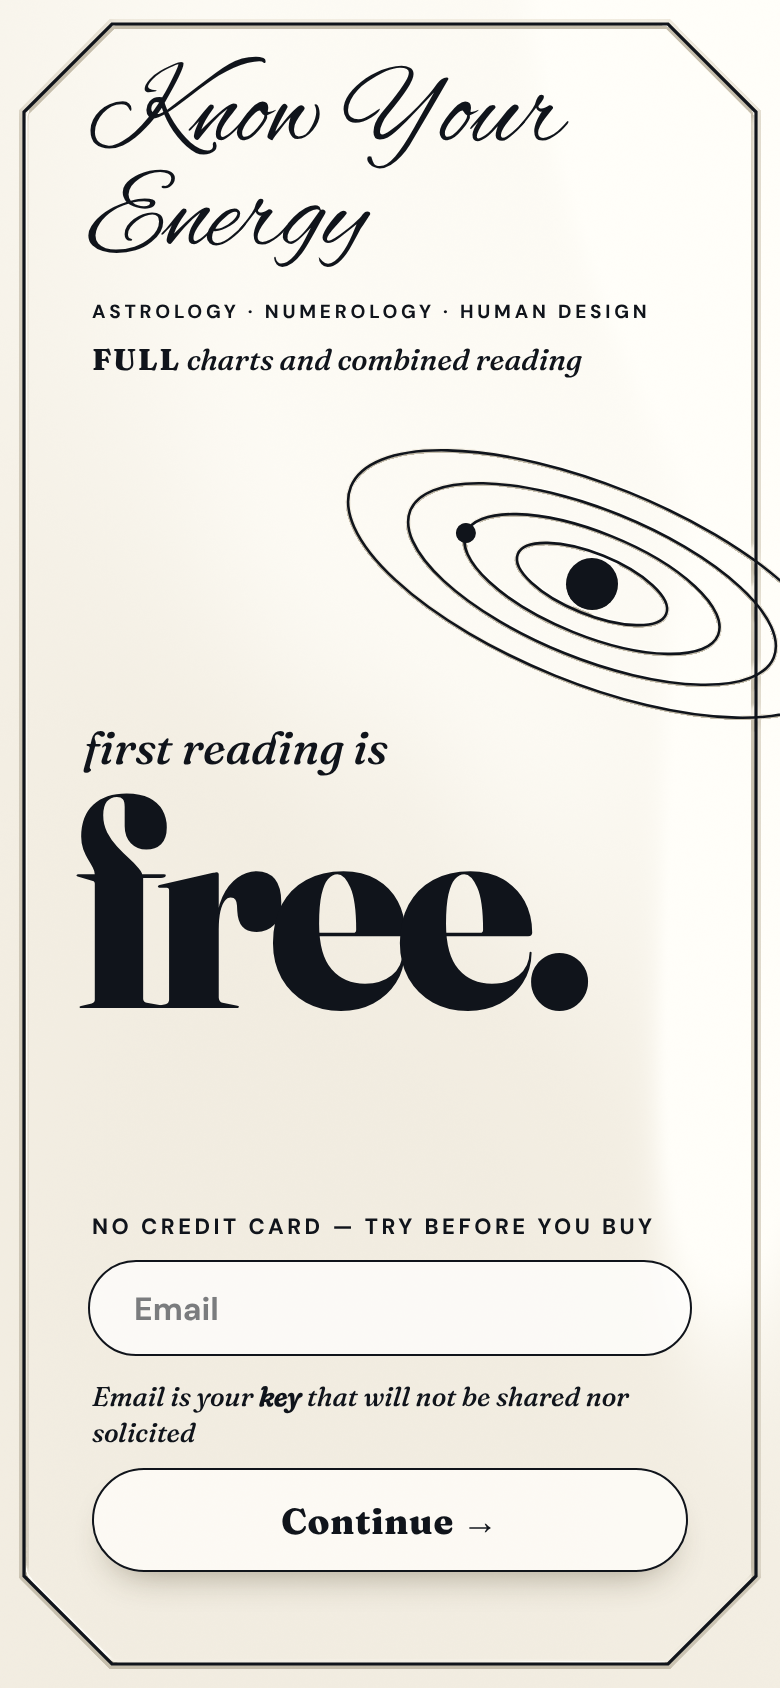
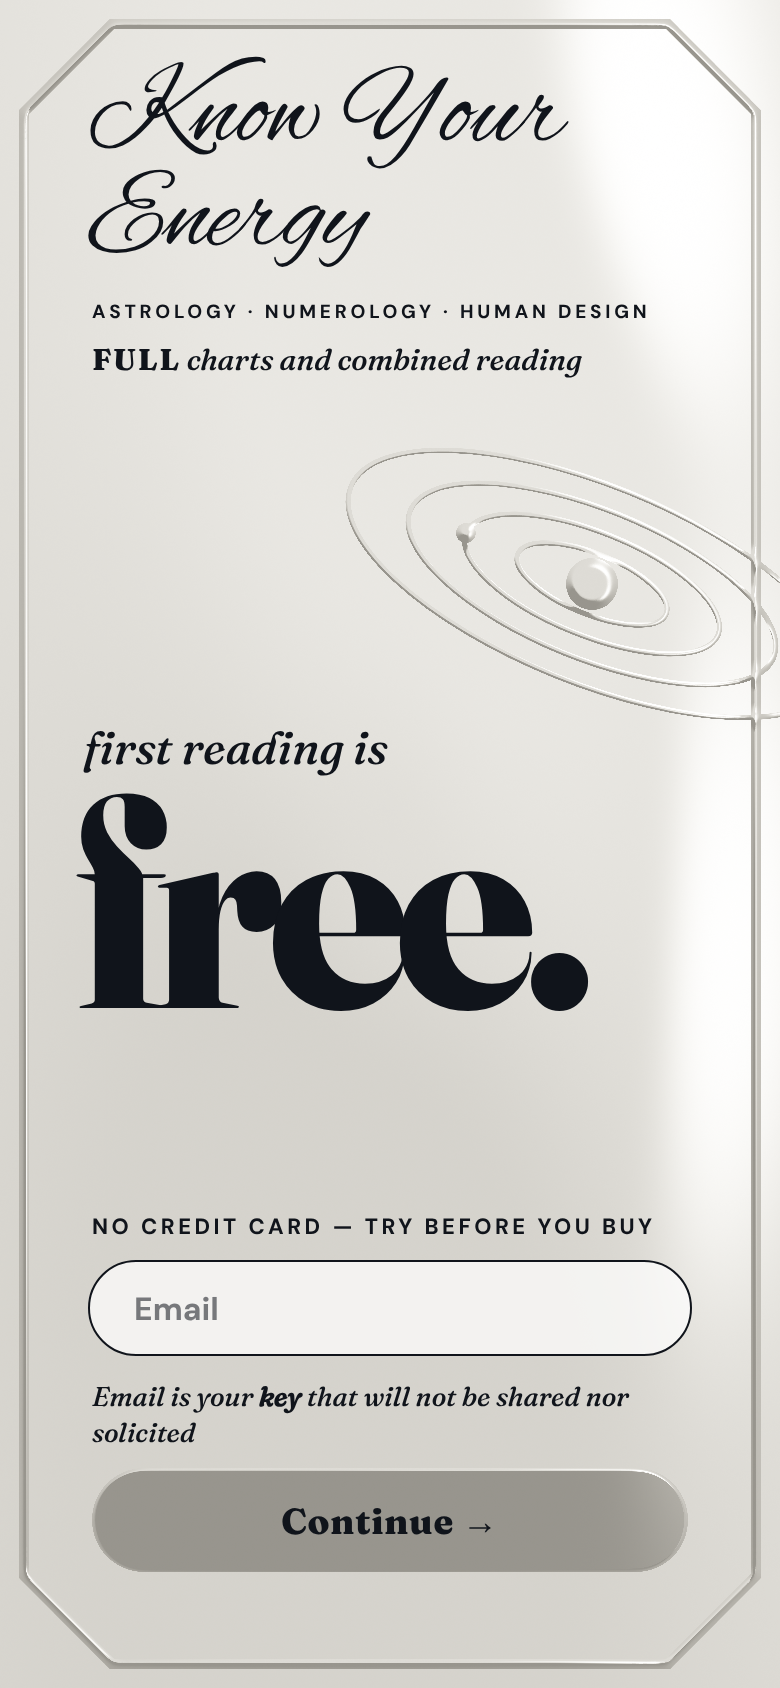
Metal page: restored to the alabaster colour swap with lighting unchanged
Claude-Session: https://claude.ai/code/session_01DRAcaZvypgnSaCTMdJvvGx

diff --git a/metalpage/page.html b/metalpage/page.html
@@ -2,7 +2,7 @@
 <link href="https://fonts.googleapis.com/css2?family=Fraunces:ital,opsz,wght@0,9..144,500;0,9..144,700;0,9..144,800;1,9..144,500&family=DM+Sans:wght@500;700&family=Alex+Brush&display=swap" rel="stylesheet">
 <style>
 *{box-sizing:border-box;margin:0;padding:0}
-html,body{width:390px;height:844px;overflow:hidden;background:#aab0b9;font-family:'DM Sans',sans-serif;color:#10141b;border:1.5px solid #10141b;border-radius:999px;background:rgba(255,254,250,.7);box-shadow:0 10px 18px -10px rgba(60,48,20,.45)}
+html,body{width:390px;height:844px;overflow:hidden;background:#aab0b9;font-family:'DM Sans',sans-serif;color:#10141b}
 #c{position:absolute;left:0;top:0;width:390px;height:844px}
 .wm{position:absolute;left:44px;top:34px;font-family:'Alex Brush',cursive;font-size:56px;line-height:.92}
 .sys{position:absolute;left:46px;top:150px;font-size:9.5px;font-weight:700;letter-spacing:.2em;text-transform:uppercase;white-space:nowrap}
@@ -15,12 +15,9 @@ html,body{width:390px;height:844px;overflow:hidden;background:#aab0b9;font-famil
 .field{position:absolute;left:44px;right:44px;top:630px;height:48px;border-radius:999px;background:rgba(255,255,255,.7);border:1.5px solid #10141b;padding:0 22px;display:flex;align-items:center;font-weight:700;font-size:16px}
 .field span{opacity:.55}
 .key{position:absolute;left:46px;top:690px;width:290px;font-family:'Fraunces',serif;font-style:italic;font-weight:500;font-size:13.5px;line-height:1.3}
-.btn{position:absolute;left:46px;width:298px;top:734px;height:52px;display:flex;align-items:center;justify-content:center;font-family:'Fraunces',serif;font-weight:800;font-size:18px;letter-spacing:.02em;color:#10141b;border:1.5px solid #10141b;border-radius:999px;background:rgba(255,254,250,.75);box-shadow:0 10px 18px -10px rgba(60,48,20,.45)}
+.btn{position:absolute;left:46px;width:298px;top:734px;height:52px;display:flex;align-items:center;justify-content:center;font-family:'Fraunces',serif;font-weight:800;font-size:18px;letter-spacing:.02em;color:#10141b}
 </style></head><body>
 <canvas id="c" width="780" height="1688"></canvas>
-<svg id="ink" style="position:absolute;left:0;top:0;width:390px;height:844px;pointer-events:none" viewBox="0 0 390 844" fill="none" stroke="#10141b">
-<path d="M56 12H334L378 56V788L334 832H56L12 788V56Z" stroke-width="1.6"/>
-<g transform="translate(296 292) rotate(22)" stroke-width="1.3"><ellipse rx="40" ry="15.2"/><ellipse rx="68" ry="25.8"/><ellipse rx="98" ry="37.2"/><ellipse rx="130" ry="49.4"/><circle r="13" fill="#10141b" stroke="none"/><circle cx="-68" r="5" fill="#10141b" stroke="none"/><circle cx="130" r="6" fill="#10141b" stroke="none"/></g></svg>
 <div class="wm">Know Your<br>Energy</div>
 <div class="sys">Astrology · Numerology · Human Design</div><div class="fcr"><b>FULL</b> charts and combined reading</div>
 <div class="hl"><span class="a">first reading is</span><span class="b">free.</span></div>
@@ -54,15 +51,11 @@ void main(){
   vec3 Ng=normalize(N+vec3(-hx*9.,-hy*9.,0.));
   vec3 rs=reflect(vec3(0.,0.,-1.),N);
   vec3 rg=reflect(vec3(0.,0.,-1.),Ng);
-  vec3 silver=vec3(.97,.975,.985)*room(rs);
-  vec3 gold=vec3(.97,.975,.99)*roomG(rg);
+  vec3 silver=vec3(1.34,1.30,1.20)*room(rs);
+  vec3 gold=vec3(1.34,1.30,1.20)*roomG(rg);
   float gm=smoothstep(.35,.65,m);
   vec3 c=mix(silver,gold,gm);
   c=1.-exp(-c*1.35);
-  float L=dot(c,vec3(.299,.587,.114));
-  L=clamp((L-.75)*1.75+.80,0.,1.);
-  vec3 lo=vec3(.77,.74,.67),mid=vec3(.950,.930,.885),hi=vec3(1.0,.995,.975);
-  c=L<.80?mix(lo,mid,smoothstep(.42,.80,L)):mix(mid,hi,smoothstep(.80,1.,L));
   c+=(hash(vec3(gl_FragCoord.xy,1.))-.5)/255.;
   gl_FragColor=vec4(clamp(c,0.,1.),1.);
 }
@@ -79,10 +72,10 @@ const goldShapes=(x)=>{
  x.lineWidth=5;oct(x,12,44);x.stroke();
  x.save();x.translate(296,292);x.rotate(22*Math.PI/180);x.lineWidth=2.6;[40,68,98,130].forEach(r=>{x.beginPath();x.ellipse(0,0,r,r*.38,0,0,Math.PI*2);x.stroke();});
   x.beginPath();x.arc(0,0,13,0,7);x.fill();x.beginPath();x.arc(-68,0,5,0,7);x.fill();x.beginPath();x.arc(130,0,6,0,7);x.fill();x.restore();
-};
+ rr(x,46,734,298,52,26);x.fill();};
 const FULL=new URLSearchParams(location.search).get('full');if(FULL)document.querySelectorAll('body>div').forEach(e=>e.style.display='none');
 const mask=layer(FULL?(x=>{x.fillRect(0,0,390,844)}):goldShapes,0);
-const h1=layer(FULL?(()=>{}):goldShapes,5),h2=layer(FULL?(()=>{}):(x)=>{x.lineWidth=5;oct(x,12,44);x.stroke();},14);
+const h1=layer(FULL?(()=>{}):goldShapes,5),h2=layer(FULL?(()=>{}):(x)=>{rr(x,46,734,298,52,26);x.fill();x.lineWidth=5;oct(x,12,44);x.stroke();},14);
 const hc=document.createElement('canvas');hc.width=W;hc.height=Hh;const hx=hc.getContext('2d');hx.drawImage(h1,0,0);hx.globalCompositeOperation='lighter';hx.globalAlpha=.7;hx.drawImage(h2,0,0);
 // ---- aim the lights: pick the spot on screen where the glint must land, solve for the light direction
 const Hf=(x,y)=>{const d=(x/.62)**2+(y/1.12)**2;return 1.7*(1-Math.pow(Math.min(d,1.7)/1.7,1.25));};
